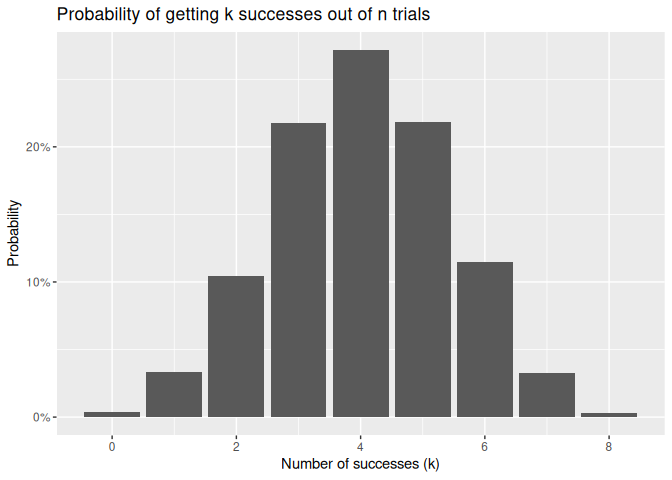
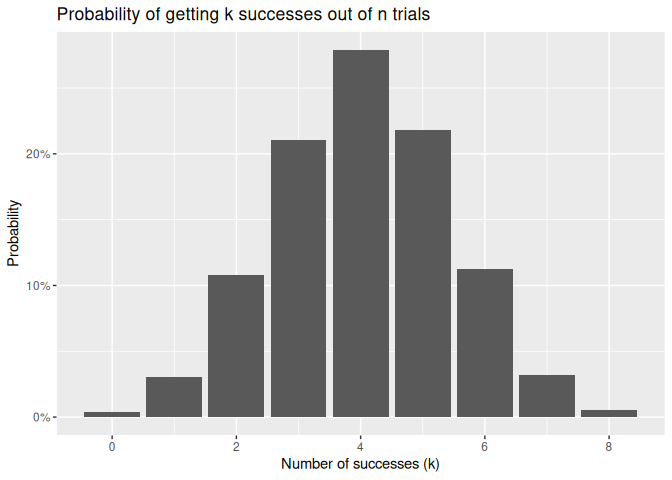
comment out deferred questions from hw-1

diff --git a/docs/homework/homework-1.md b/docs/homework/homework-1.md
@@ -60,23 +60,17 @@ Load the dataset called `tik_tok_data.csv`, located on the class site.
     standard error? Describe why the standard error is lower in terms of
     variance and sample size.
 
-7.  Using the “overlapping confidence intervals” approach, test the
-    hypothesis that **timesaver9000** and **lindsaynikole** have
-    different average numbers of views.
+<!-- 7. Using the "overlapping confidence intervals" approach, test the hypothesis that **timesaver9000** and **lindsaynikole** have different average numbers of views. -->
 
-8.  Using the `t.test()` function, test the same hypothesis above.
-    Interpret its output in detail.
+<!-- 8. Using the `t.test()` function, test the same hypothesis above. Interpret its output in detail. -->
 
-## Problem 3: Writing Functions
+<!-- ## Problem 3: Writing Functions -->
 
-1.  Write a function to convert pounds to kilograms.
+<!-- 1. Write a function to convert pounds to kilograms. -->
 
-2.  Write a function to convert pounds to kilograms, or kilograms to
-    pounds.
+<!-- 2. Write a function to convert pounds to kilograms, or kilograms to pounds. -->
 
-3.  Write a function to convert any of pounds, kilograms, stone, or gram
-    to any of the other units. Start by thinking about what arguments
-    your function should take. There should be 3.
+<!-- 3. Write a function to convert any of pounds, kilograms, stone, or gram to any of the other units. Start by thinking about what arguments your function should take. There should be 3. -->
 
 End of HW1. Make sure to submit both your .qmd file and output, either
 as a self-contained HTML or PDF file (this file, as well as the starter

diff --git a/docs/lectures/lecture-4.md b/docs/lectures/lecture-4.md
@@ -111,7 +111,7 @@ trials <- rbinom(1e4, 8, .5)
 sum(trials == 7) / length(trials)
 ```
 
-    [1] 0.0327
+    [1] 0.0317
 
 ``` r
 # make a plot of those probabilities
@@ -168,15 +168,15 @@ pl
     # A tibble: 9 × 3
       n_success pr_sim pr_real
           <int>  <dbl>   <dbl>
-    1         0 0.0041 0.00391
-    2         1 0.0331 0.0313 
-    3         2 0.104  0.109  
-    4         3 0.217  0.219  
-    5         4 0.272  0.273  
+    1         0 0.0042 0.00391
+    2         1 0.0304 0.0313 
+    3         2 0.108  0.109  
+    4         3 0.211  0.219  
+    5         4 0.279  0.273  
     6         5 0.218  0.219  
-    7         6 0.115  0.109  
-    8         7 0.0327 0.0313 
-    9         8 0.0034 0.00391
+    7         6 0.112  0.109  
+    8         7 0.0317 0.0313 
+    9         8 0.0052 0.00391
 
 # The p-value
 
